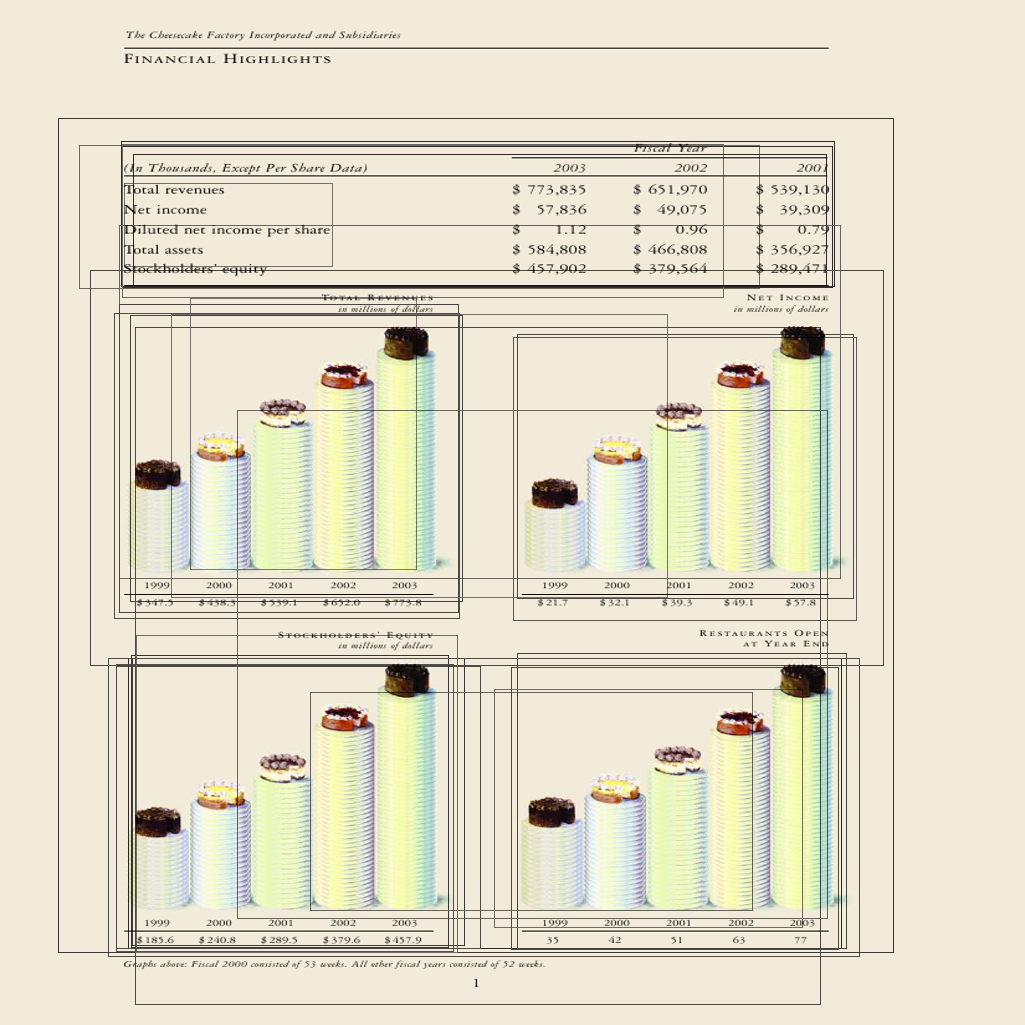
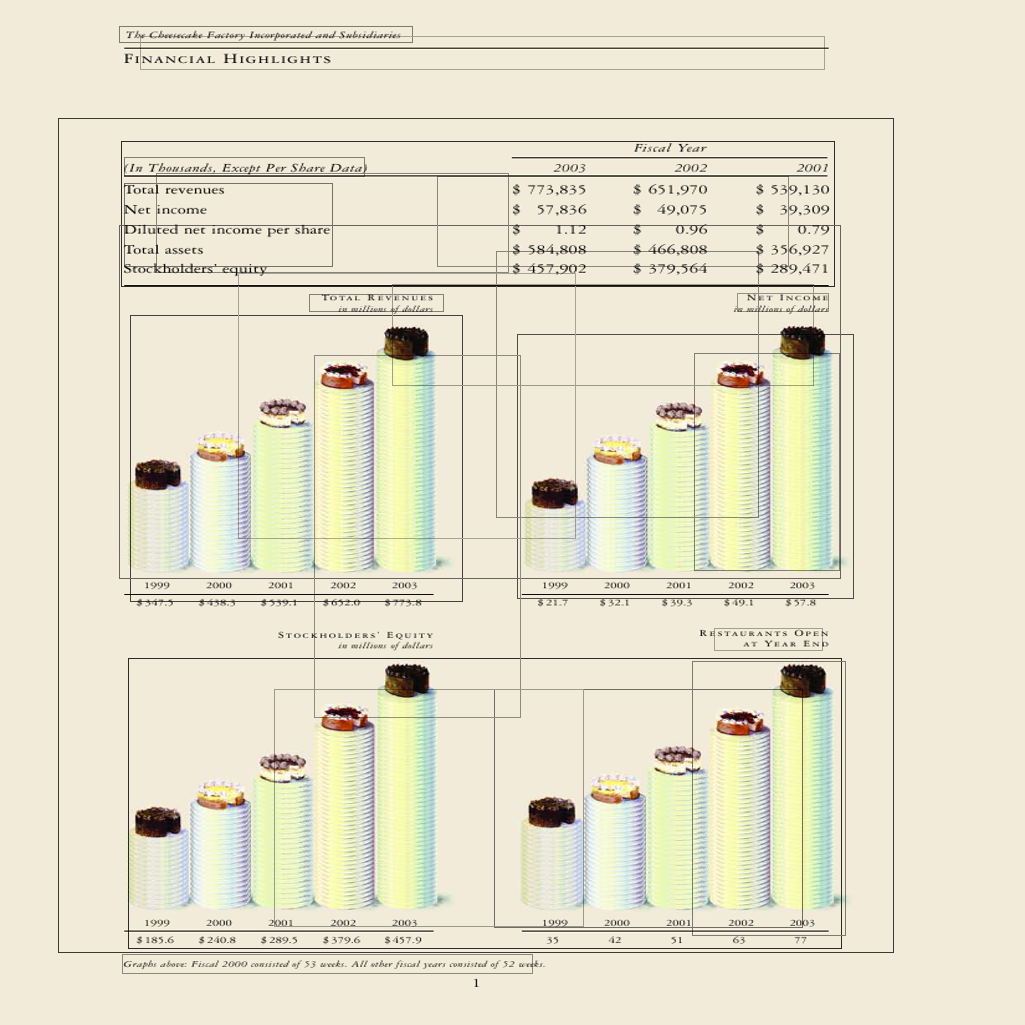
nms do yolo zeby przynajmniej bylo do pokazania

diff --git a/pracaInzynierska/segmenty/YOLO/wersja1highres/inference.py b/pracaInzynierska/segmenty/YOLO/wersja1highres/inference.py
@@ -1,4 +1,4 @@
-from model import YOLOBasedModel
+from model import YOLOBasedModel, intersectionOverUnion
 import torch
 from PIL import Image, ImageDraw
 import torchvision.transforms.functional as functional
@@ -29,26 +29,45 @@ for img in imgs:
         output = model(image)
     print(output.shape)
     output = output[0]
+    boxes = []
     with Image.open(f"../../pics/{img}").convert("RGBA") as im:
         w, h = im.size
         xScale, yScale = (w/SIZE, h/SIZE)
         overlay = Image.new("RGBA", im.size, (0, 0, 0, 0))
         draw = ImageDraw.Draw(overlay)
+
         for Y in range(GRID):
             for X in range(GRID):
                 for box in range(BOXES):
                     confidence = (torch.sigmoid(output[Y][X][box*5 + 4]))
-                    if confidence > threshold:
-                        coord = (torch.sigmoid(output[Y][X][box*5:2+box*5]))
-                        size = (torch.sigmoid(output[Y][X][box*5+2:4+box*5]))
-                        x, y = ((X+coord[0])*SIZE/GRID*xScale, (Y+coord[1])*SIZE/GRID*yScale)
-                        w, h = (size[0]*SIZE*xScale, size[1]*SIZE*yScale)
-                        x -= w/2
-                        y -= h/2
-                        gray = int(255 * confidence.item())
-                        draw.line((x, y, x+w, y), fill=(0,0,0,gray))
-                        draw.line((x+w, y, x+w, y+h), fill=(0,0,0,gray))
-                        draw.line((x+w, y+h, x, y+h), fill=(0,0,0,gray))
-                        draw.line((x, y+h, x, y), fill=(0,0,0,gray))
+                    coord = (torch.sigmoid(output[Y][X][box*5:2+box*5]))
+                    size = (torch.sigmoid(output[Y][X][box*5+2:4+box*5]))
+                    x, y = ((X+coord[0])*SIZE/GRID*xScale, (Y+coord[1])*SIZE/GRID*yScale)
+                    w, h = (size[0]*SIZE*xScale, size[1]*SIZE*yScale)
+                    boxes.append({"p": confidence, "c": (x,y), "s": (w,h)})
+        boxes = list(filter(lambda box: box["p"]>0.3, boxes))
+        boxes.sort(key=lambda box: box["p"], reverse=True)
+        i = 0
+        while i < len(boxes):
+            best = boxes[i]
+            for box in boxes[i+1:]:
+                iou = intersectionOverUnion(torch.stack(best["c"]),torch.stack(best["s"]),
+                                            torch.stack(box["c"]), torch.stack(box["s"])).item()
+                if iou >= 0.4:
+                    boxes.remove(box)
+            i+=1
+
+        for box in boxes:
+            confidence = box["p"]
+            w, h = box["s"]
+            x, y = box["c"]
+            x -= w/2
+            y -= h/2
+            gray = int(255 * confidence.item())
+            draw.line((x, y, x+w, y), fill=(0,0,0,gray))
+            draw.line((x+w, y, x+w, y+h), fill=(0,0,0,gray))
+            draw.line((x+w, y+h, x, y+h), fill=(0,0,0,gray))
+            draw.line((x, y+h, x, y), fill=(0,0,0,gray))
+
         im = Image.alpha_composite(im, overlay)
         im.save(f"../results/result-{img}", "PNG")
